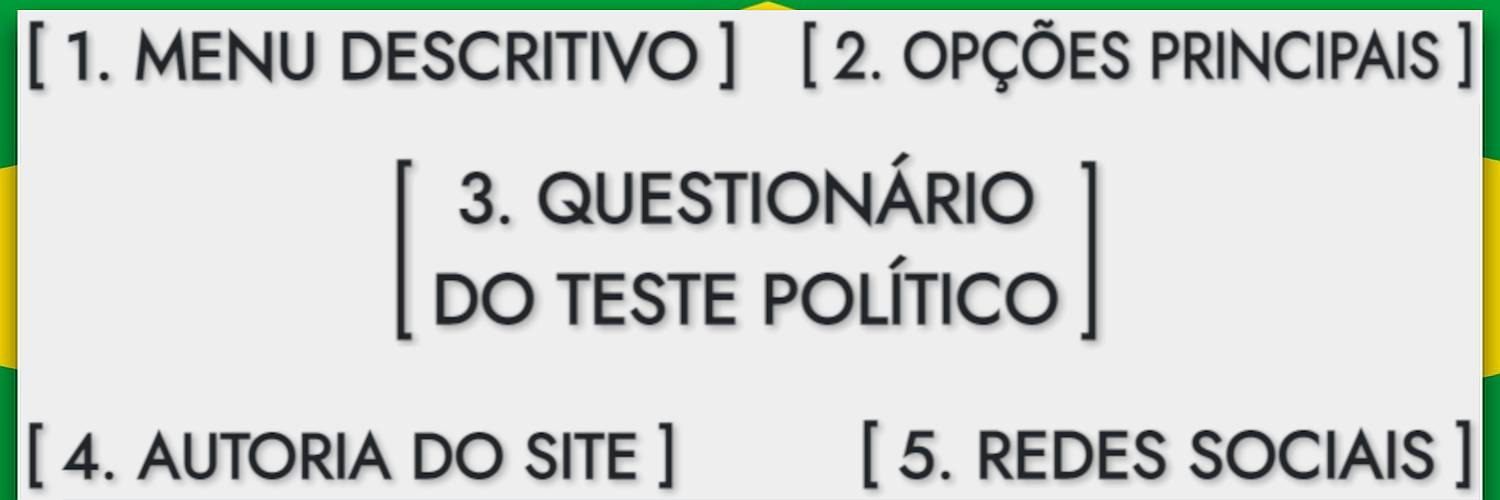
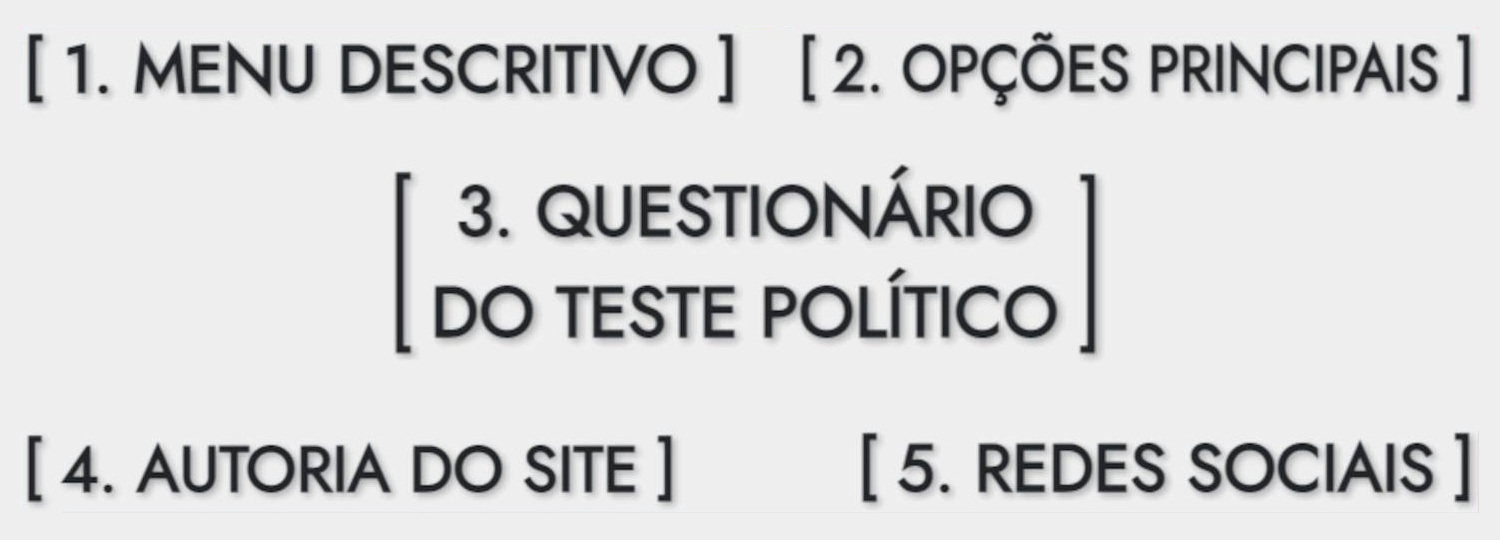
Ajustes finais no layout ate o momento.

Changed region(s): [[0.0, 0.0, 1.0, 1.0], [0.2453, 0.33, 0.736, 0.69], [0.5827, 0.3, 0.6133, 0.33]]

diff --git a/index.html b/index.html
@@ -141,7 +141,7 @@
                         <h6 class="dropdown-header"><b>UNITED SAPIENS</b></h6>
                         <a href="https://www.united-sapiens.org" class="dropdown-item" title="https://www.united-sapiens.org/" target="_blank"><i class="fa-solid fa-earth-americas"></i>&nbsp; Conheça a Iniciativa</a>
                         <a href="https://github.com/existo-me/existo-me.github.io" class="dropdown-item" title="https://github.com/existo-me/existo-me.github.io/" target="_blank"><i class="fa-solid fa-code"></i> &nbsp; Contribua com o Código</a>
-                        <a href="mailto:united.sapiens.br@gmail.com" class="dropdown-item" title="mailto:united.sapiens.br@gmail.com"><i class="fa-regular fa-envelope"></i> &nbsp; Seu Feedback é Bem-vindo</a>
+                        <a href="mailto:united.sapiens.br@gmail.com?subject=Feedback%20sobre%20o%20EXISTO.me:%20" class="dropdown-item" title="mailto:united.sapiens.br@gmail.com"><i class="fa-regular fa-envelope"></i> &nbsp; Seu Feedback é Bem-vindo</a>
                     </div>
                 </div>
                 <ul class="nav col-md-6 d-flex justify-content-end list-unstyled">
@@ -179,7 +179,7 @@
                             </div>
 
                             <div id="itemRestart" class="carousel-item text-center">
-                                <p><i class="fa-solid fa-table-cells fa-3x icon-result"></i></p>
+                                <p><i class="fa-solid fa-table-cells fa-3x icon-test"></i></p>
                                 <h2 class="text-uppercase mb-3">Teste do GPS Político</h2>
                                 <p class="lead text-justify">Mussum Ipsum, cacilds vidis litro abertis. Mé faiz elementum girarzis, nisi eros vermeio. Paisis, filhis, espiritis santis. Si num tem leite então bota uma pinga aí cumpadi! Todo mundo vê os porris que eu tomo, mas ninguém vê os tombis que eu levo!</p>
                                 <div class="d-grid gap-3 d-md-flex justify-content-md-center m-4 px-4">
@@ -189,7 +189,7 @@
                             </div>
 
                             <div id="itemNotify" class="carousel-item text-center">
-                                <h2 class="m-3"><span class="badge text-bg-danger">+4</span></h2>
+                                <h2 class="h-notify"><span class="badge text-bg-danger">+4</span></h2>
                                 <h2 class="text-uppercase mb-3">Novas Questões para o Teste</h2>
                                 <p class="lead text-justify">Mussum Ipsum, cacilds vidis litro abertis. Mé faiz elementum girarzis, nisi eros vermeio. Paisis, filhis, espiritis santis. Si num tem leite então bota uma pinga aí cumpadi! Todo mundo vê os porris que eu tomo, mas ninguém vê os tombis que eu levo!</p>
                                 <div class="d-grid gap-3 d-md-flex justify-content-md-center m-4 px-4">
@@ -257,7 +257,7 @@
                         </button>
                     </div>
 
-                    <div id="progressRange" class="col-lg-10">
+                    <div id="progressRange" class="col-lg-10 d-none">
                         <p><input id="rangeTest" type="range" class="form-range" min="0" max="60" step="1" value="10" disabled></p>
                     </div>
                 </div>
@@ -476,10 +476,10 @@
                                 <a class="nav-link active" data-bs-toggle="tab" aria-current="page" href="#tabHelpHome">Home</a>
                             </li>
                             <li class="nav-item">
-                                <a class="nav-link btn-sm" data-bs-toggle="tab" href="#tabHelpTest">Teste</a>
+                                <a class="nav-link" data-bs-toggle="tab" href="#tabHelpOptions">Opções</a>
                             </li>
                             <li class="nav-item">
-                                <a class="nav-link" data-bs-toggle="tab" href="#tabHelpOptions">Opções</a>
+                                <a class="nav-link btn-sm" data-bs-toggle="tab" href="#tabHelpTest">Teste</a>
                             </li>
                             <li class="nav-item">
                                 <a class="nav-link" data-bs-toggle="tab" href="#tabHelpFaq">FAQ</a>
@@ -570,7 +570,7 @@
                         </div>
                     </div>
                     <div class="modal-footer">
-                        <a href="mailto:united.sapiens.br@gmail.com?subject=Dúvida%20sobre%20Existo.me" class="btn btn-outline-secondary mx-3" role="button" title="mailto:united.sapiens.br@gmail.com" target="_blank"><i class="fa-regular fa-envelope"></i>&nbsp; Dúvidas?</a>
+                        <a href="mailto:united.sapiens.br@gmail.com?subject=Dúvida%20sobre%20o%20EXISTO.me:%20" class="btn btn-outline-secondary mx-3" role="button" title="mailto:united.sapiens.br@gmail.com" target="_blank"><i class="fa-regular fa-envelope"></i>&nbsp; Dúvidas?</a>
                         <button type="button" class="btn btn-secondary" data-bs-dismiss="modal" title="Clique para fechar"><i class="fa-solid fa-xmark"></i>&nbsp; Fechar</button>
                     </div>
                 </div>

diff --git a/styles/main.css b/styles/main.css
@@ -132,6 +132,17 @@ a i[class^='bi']:focus {
     }
 }
 
+.h-notify {
+    line-height: 1.5em;
+    margin-top: 0;
+    margin-bottom: 1rem;
+}
+
+.h-notify .badge {
+    font-size: 0.94em;
+    line-height: 1em;
+}
+
 
 /*--- CAROUSEL --------------------------------------------------*/
 
@@ -225,6 +236,8 @@ a i[class^='bi']:focus {
     color: #212529;
     font-size: 1.4rem;
 }
+
+.icon-test {}
 
 .btn-nav {
     box-sizing: content-box;
